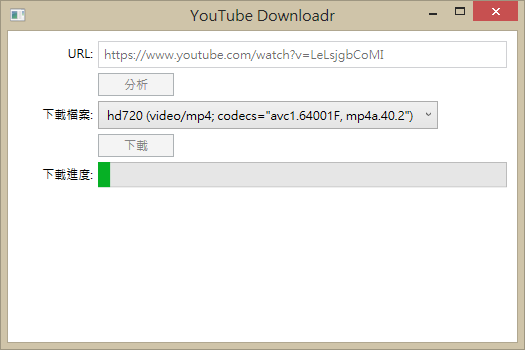
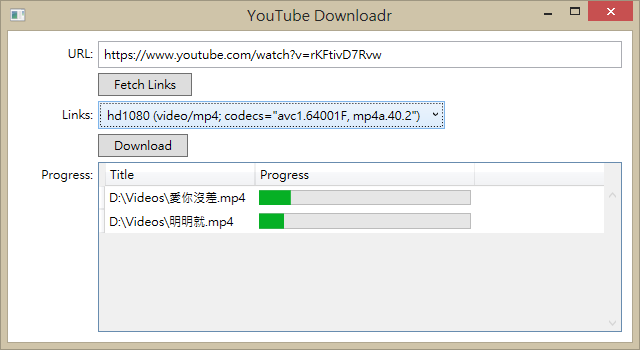
Add multiple concurrent downloads support

diff --git a/YouTube Downloadr/MainWindow.xaml b/YouTube Downloadr/MainWindow.xaml
@@ -1,7 +1,7 @@
 <Window x:Class="YouTube_Downloadr.MainWindow"
         xmlns="http://schemas.microsoft.com/winfx/2006/xaml/presentation"
         xmlns:x="http://schemas.microsoft.com/winfx/2006/xaml"
-        Title="YouTube Downloadr" Height="350" Width="525">
+        Title="YouTube Downloadr" Height="350" Width="640">
   <Grid Margin="10">
     <Grid.ColumnDefinitions>
       <ColumnDefinition Width="80" />
@@ -12,7 +12,7 @@
       <RowDefinition Height="Auto" />
       <RowDefinition Height="Auto" />
       <RowDefinition Height="Auto" />
-      <RowDefinition Height="Auto" />
+      <RowDefinition Height="*" />
     </Grid.RowDefinitions>
 
 
@@ -35,23 +35,26 @@
     <Button x:Name="Download" Grid.Row="3" Grid.Column="1" Content="Download" Margin="0,5" Padding="15,3" HorizontalAlignment="Left" IsEnabled="False" Click="Download_Click"/>
 
     <TextBlock Grid.Row="4" Grid.Column="0" Text="Progress:" Margin="5" HorizontalAlignment="Right" />
-    <ProgressBar Grid.Row="4" Grid.Column="1" x:Name="Progress" IsIndeterminate="False" />
-    <!--
-    <ScrollViewer Grid.Row="4" Grid.Column="1">
-      <ListBox x:Name="DownloadList">
-        <ListBox.ItemTemplate>
-          <DataTemplate>
-            <Grid>
-              <Grid.ColumnDefinitions>
-                <ColumnDefinition Width="100" />
-                <ColumnDefinition Width="*" />
-                <ColumnDefinition Width="Auto" />
-              </Grid.ColumnDefinitions>
-            </Grid>
-          </DataTemplate>
-        </ListBox.ItemTemplate>
-      </ListBox>
-    </ScrollViewer>
-    -->
+    <DataGrid x:Name="DownloadList" Grid.Row="4" Grid.Column="1"
+              GridLinesVisibility="None" CanUserAddRows="False"
+              AutoGenerateColumns="False"
+              ScrollViewer.VerticalScrollBarVisibility="Visible">
+      <DataGrid.Columns>
+        <DataGridTemplateColumn Header="Title" IsReadOnly="True" Width="150">
+          <DataGridTemplateColumn.CellTemplate>
+            <DataTemplate>
+              <TextBlock Text="{Binding Title}" Margin="3" VerticalAlignment="Center"/>
+            </DataTemplate>
+          </DataGridTemplateColumn.CellTemplate>
+        </DataGridTemplateColumn>
+        <DataGridTemplateColumn Header="Progress" IsReadOnly="True" Width="220">
+          <DataGridTemplateColumn.CellTemplate>
+            <DataTemplate>
+              <ProgressBar Value="{Binding Progress}" Margin="3"/>
+            </DataTemplate>
+          </DataGridTemplateColumn.CellTemplate>
+        </DataGridTemplateColumn>
+      </DataGrid.Columns>
+    </DataGrid>
   </Grid>
 </Window>

diff --git a/YouTube Downloadr/MainWindow.xaml.cs b/YouTube Downloadr/MainWindow.xaml.cs
@@ -3,9 +3,12 @@ using System;
 using System.Collections.Generic;
 using System.Collections.ObjectModel;
 using System.ComponentModel;
+using System.Diagnostics;
 using System.Net;
 using System.Text.RegularExpressions;
+using System.Threading.Tasks;
 using System.Windows;
+using System.Windows.Controls;
 
 namespace YouTube_Downloadr
 {
@@ -82,16 +85,93 @@ namespace YouTube_Downloadr
 
     }
 
+    // view model for download list
+    public class DownloadListViewModel : INotifyPropertyChanged
+    {
+      // represent the downloading file
+      private string _title;
+      public string Title
+      {
+        get
+        {
+          return _title;
+        }
+        set
+        {
+          if (value != _title)
+          {
+            _title = value;
+            NotifyPropertyChanged("Title");
+          }
+        }
+      }
+
+      // represent the downloading progress
+      private int _progress;
+      public int Progress
+      {
+        get
+        {
+          return _progress;
+        }
+        set
+        {
+          if (value != _progress)
+          {
+            _progress = value;
+            NotifyPropertyChanged("Progress");
+          }
+        }
+      }
+
+      private int _tag;
+      public int Tag
+      {
+        get
+        {
+          return _tag;
+        }
+        set
+        {
+          if (value != _tag)
+          {
+            _tag = value;
+            NotifyPropertyChanged("Tag");
+          }
+        }
+      }
+
+      public event PropertyChangedEventHandler PropertyChanged;
+      private void NotifyPropertyChanged(String propertyName)
+      {
+        PropertyChangedEventHandler handler = PropertyChanged;
+        if (null != handler)
+        {
+          handler(this, new PropertyChangedEventArgs(propertyName));
+        }
+      }
+    }
+
+
     // the collection data used for combo box binding
-    public ObservableCollection<DownloadLinksViewModel> Items { get; private set; }
+    public ObservableCollection<DownloadLinksViewModel> Links { get; private set; }
+    public ObservableCollection<DownloadListViewModel> DownloadItems { get; private set; }
+
+    public List<Task> DownloadTasks { get; set; }
 
     public MainWindow()
     {
       InitializeComponent();
 
       // Initialize the view model and data binding
-      Items = new ObservableCollection<DownloadLinksViewModel>();
-      Files.ItemsSource = Items;
+      Links = new ObservableCollection<DownloadLinksViewModel>();
+      Files.ItemsSource = Links;
+
+      DownloadItems = new ObservableCollection<DownloadListViewModel>();
+      DownloadList.ItemsSource = DownloadItems;
+
+      // initialize the task pool
+      DownloadTasks = new List<Task>();
 
       Url.Focus();
     }
@@ -108,7 +188,7 @@ namespace YouTube_Downloadr
       var content = Url.Text;
 
       // clear the download links
-      Items.Clear();
+      Links.Clear();
 
       ToggleControls(false);
 
@@ -154,7 +234,7 @@ namespace YouTube_Downloadr
               }
 
               // Insert a links into the view model
-              Items.Add(new DownloadLinksViewModel() 
+              Links.Add(new DownloadLinksViewModel() 
               { 
                 Title = paramMap["quality"] + " (" + paramMap["type"] + ")",
                 Type = fileType, 
@@ -164,7 +244,7 @@ namespace YouTube_Downloadr
             }
           }
 
-          if (Items.Count > 0)
+          if (Links.Count > 0)
           {
             Files.SelectedIndex = 0;
           }
@@ -185,7 +265,7 @@ namespace YouTube_Downloadr
     private void Download_Click(object sender, RoutedEventArgs args)
     {
       int index = Files.SelectedIndex;
-      DownloadLinksViewModel item = Items[index];
+      DownloadLinksViewModel item = Links[index];
 
       // open a SaveFileDialog to choose where to save the file
       SaveFileDialog sfd = new SaveFileDialog();
@@ -193,27 +273,40 @@ namespace YouTube_Downloadr
       sfd.Filter = "All Files (*.*) | *.*";
       if ((bool) sfd.ShowDialog())
       {
-        ToggleControls(false);
+        //ToggleControls(false);
 
         // determine the filename set by user.
         string fileName = sfd.FileName;
+        int taskIndex = DownloadTasks.Count;
+        DownloadItems.Add(new DownloadListViewModel() 
+        { 
+          Title = fileName,
+          Progress = 0,
+          Tag = taskIndex
+        });
+
 
         WebClient client = new WebClient();
         client.DownloadProgressChanged += (s, e) =>
         {
           // update the progress bar
-          Progress.Value = e.ProgressPercentage;
+          DownloadItems[taskIndex].Progress = e.ProgressPercentage;
         };
 
         client.DownloadFileCompleted += (s, e) => {
-          ToggleControls(true);
-          MessageBox.Show("Done.");
+
         };
 
         // start to download file.
-        client.DownloadFileAsync(new Uri(Items[index].Link), fileName);
+        Task task = client.DownloadFileTaskAsync(new Uri(Links[index].Link), fileName);
+        DownloadTasks.Add(task);
 
+        // clear the url and combobox
+        Url.Text = "";
+        Url.Focus();
+        Links.Clear();
       }
     }
+
   }
 }

diff --git a/README.md b/README.md
@@ -3,3 +3,9 @@ YouTube Downloadr
 
 A simple WPF Application that downloads videos from YouTube. Here is the screenshot of this application.
 ![YouTube Downloadr](Assets/screenshot.png?raw=true "Screenshot of YouTube Downloadr")
+
+Requirement
+-----------
+
+* .Net Framework 4.5
+* Visual Studio 2012
